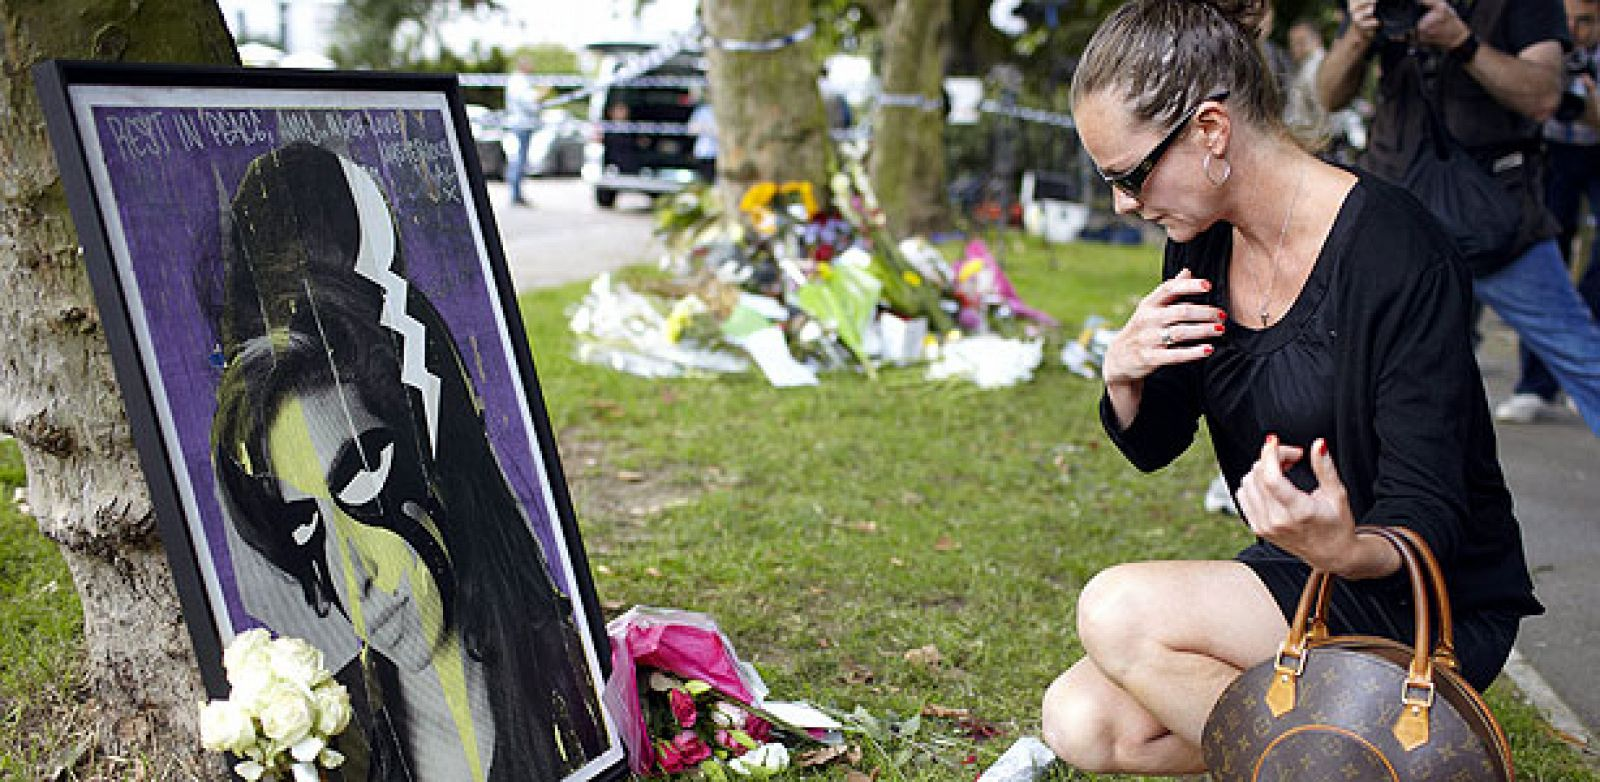
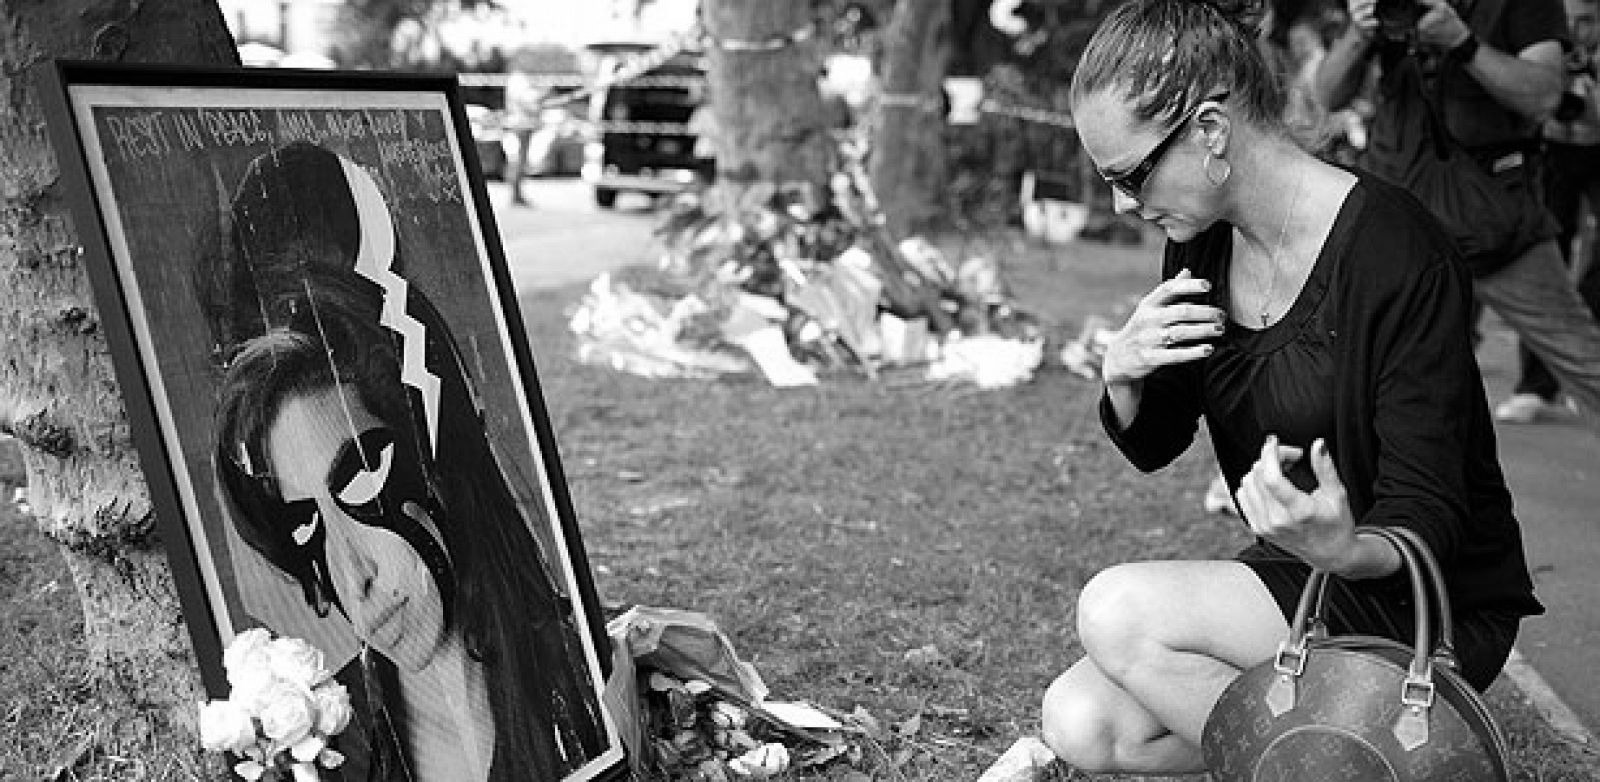
mejoramiento

diff --git a/index.html b/index.html
@@ -42,13 +42,13 @@
       <div id="carouselExampleAutoplaying" class="carousel slide" data-bs-ride="carousel">
         <div class="carousel-inner">
           <div class="carousel-item active">
-            <img src="./assets/img/544d2ff1-d3bb-41ed-b734-9d7ace55a9be.jpeg" class="d-block w-100" alt="...">
+            <img src="./assets/img/byn/21.jpg" class="d-block w-100" alt="...">
           </div>
           <div class="carousel-item">
-            <img src="./assets/img/843176470_241085881_1706x1280.webp" class="d-block w-100" alt="...">
+            <img src="./assets/img/byn/22.jpg" class="d-block w-100" alt="...">
           </div>
           <div class="carousel-item">
-            <img src="./assets/img/ab67616d0000b2738f52f321140e4a76ea720c52.jpeg" class="d-block w-100" alt="...">
+            <img src="./assets/img/byn/23.jpg" class="d-block w-100" alt="...">
           </div>
         </div>
         <button class="carousel-control-prev" type="button" data-bs-target="#carouselExampleAutoplaying" data-bs-slide="prev">
@@ -65,7 +65,7 @@
         <div class="row">
             <div class="col-lg-6 mb-4">
                 <div class="card">
-                    <img class="card-img-top" src="assets/img/1.webp" >
+                    <img class="card-img-top" src="assets/img/byn/25.jpg" >
 
                     <div class="card-body">
                         <h5 class="card-title">AMY Winehouse</h5>
@@ -82,7 +82,7 @@
             </div>
             <div class="col-lg-6 mb-4">
                 <div class="card">
-                  <img class="card-img-top" src="assets/img/2.jpeg" >
+                  <img class="card-img-top" src="assets/img/byn/24.jpg" >
                   <div class="card-body">
                         <h5 class="card-title">Grandes éxitos</h5>
                         <p class="card-text">
